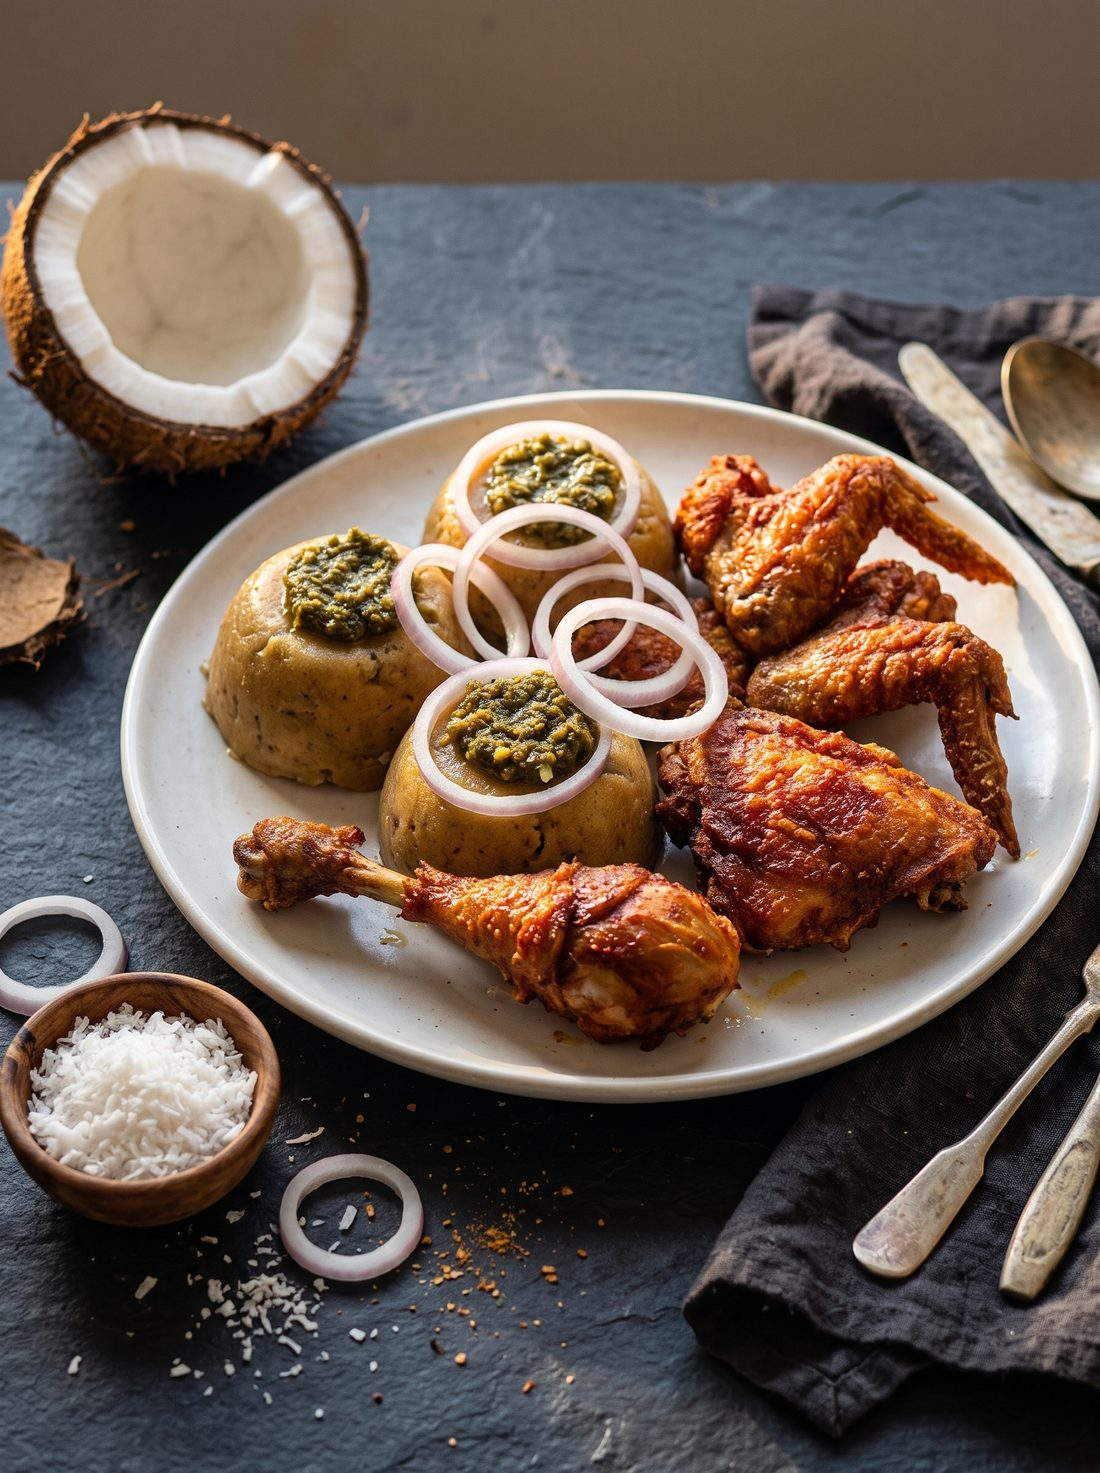
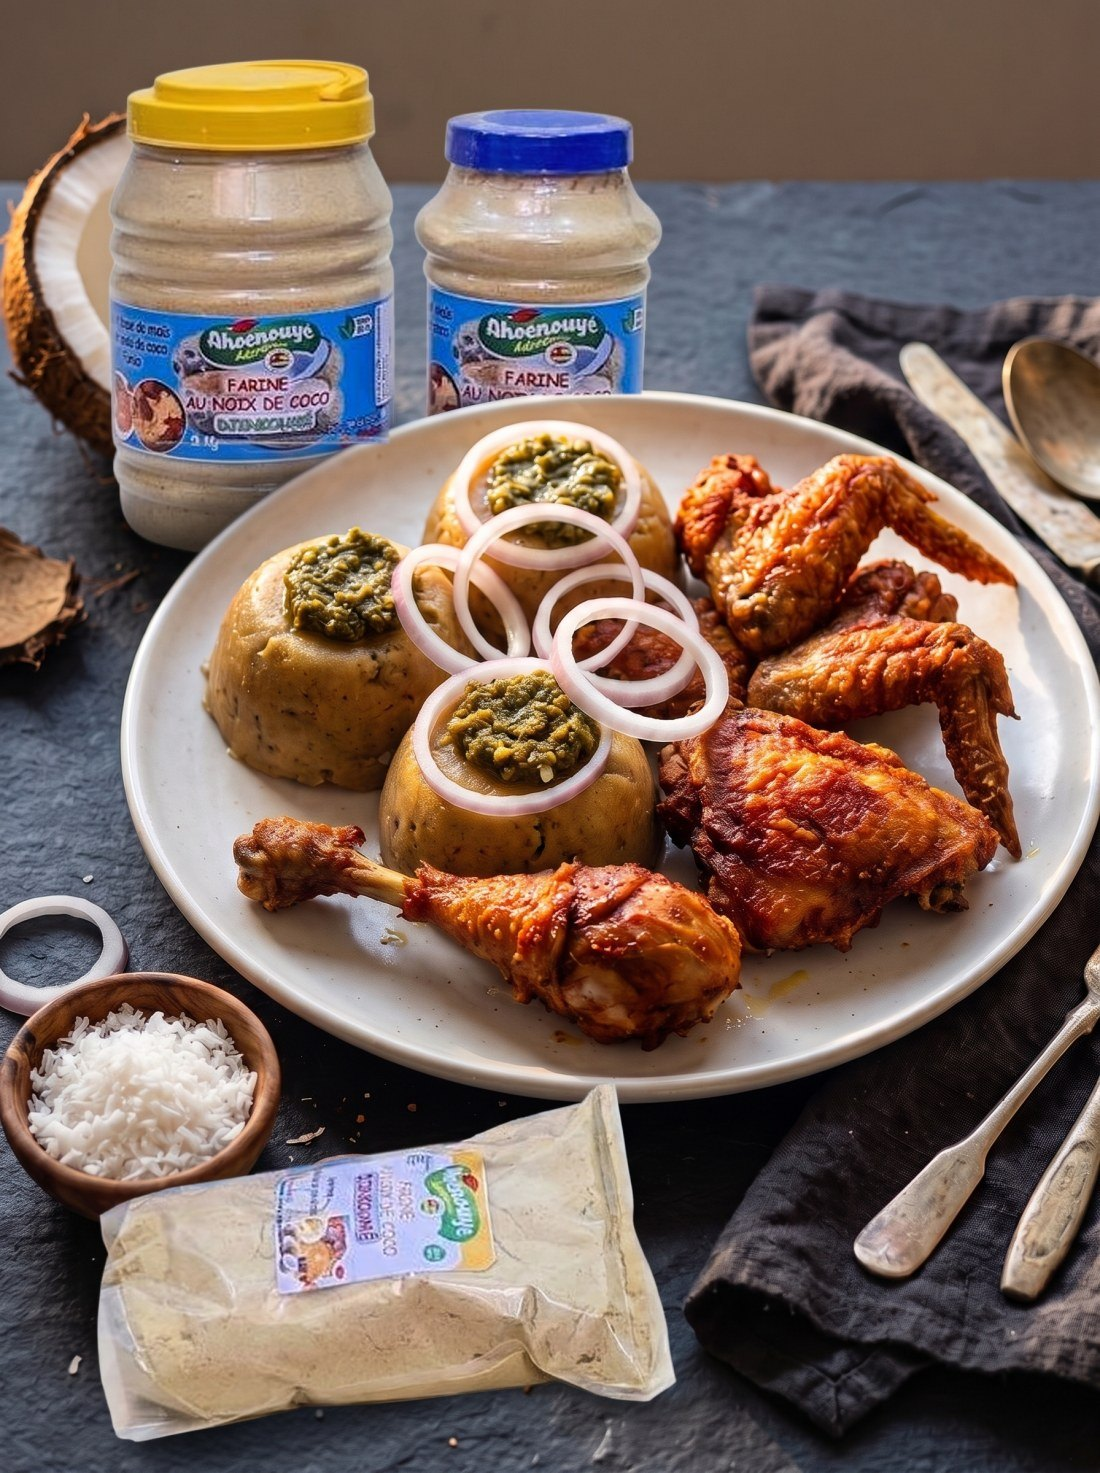
Djinkoumè à la noix de coco : pots et sachet réels dans l'image, 2 formats (2 500 / 5 000 F CFA)

diff --git a/index.html b/index.html
@@ -639,13 +639,15 @@ footer a:hover{color:#fff}
         </div>
       </article>
       <article class="card rv d1" data-cat="plat">
-        <div class="img"><img src="assets/djinkoume.jpg" alt="Djinkoumè à la noix de coco" loading="lazy"><span class="pill y">Coco</span></div>
+        <div class="img"><img src="assets/djinkoume.jpg?v=2" alt="Djinkoumè à la noix de coco : petit et grand pot, sachet de farine, plat de djinkoumè et poulet frit" loading="lazy"><span class="pill y">2 formats</span></div>
         <div class="body">
-          <h3>Djinkoumè</h3>
+          <h3>Djinkoumè à la noix de coco</h3>
           <div class="for">Pour : djinkoumè à la noix de coco</div>
-          <p>La pâte rouge des fêtes, parfumée à la coco. Possible même un mardi soir.</p>
-          <div class="price"><b>2 500</b> <small>F CFA</small></div>
-          <a class="order wa" data-msg="Bonjour Ahoénouyé, je souhaite commander la Farine de Djinkoumè à la noix de coco (2 500 F CFA)." href="#">Commander <svg viewBox="0 0 24 24" fill="none" stroke="currentColor" stroke-width="2.2"><path d="M5 12h14M13 6l6 6-6 6"/></svg></a>
+          <p>Une farine à base de maïs, fonio, riz et noix de coco pour une pâte dorée et parfumée à la coco. Existe en petit et en grand pot.</p>
+          <div class="price"><small class="from">dès</small> <b>2 500</b> <small>F CFA</small></div>
+          <fieldset class="opts" data-product="Djinkoumè à la noix de coco"><legend>Cochez les formats à commander</legend><label class="opt" for="djinkoume-f1"><input type="checkbox" id="djinkoume-f1" data-label="petit pot" data-price="2500"><span class="ot">Petit pot</span><b>2 500 F CFA</b></label><label class="opt" for="djinkoume-f2"><input type="checkbox" id="djinkoume-f2" data-label="grand pot" data-price="5000"><span class="ot">Grand pot</span><b>5 000 F CFA</b></label></fieldset>
+          <div class="opt-hint" role="status" hidden>Cochez au moins un format pour commander.</div>
+          <a class="order wa" data-msg="Bonjour Ahoénouyé, je souhaite commander Djinkoumè à la noix de coco." href="#"><span class="olabel">Commander</span> <svg viewBox="0 0 24 24" fill="none" stroke="currentColor" stroke-width="2.2"><path d="M5 12h14M13 6l6 6-6 6"/></svg></a>
         </div>
       </article>
       <article class="card rv d2" data-cat="bouillie">
